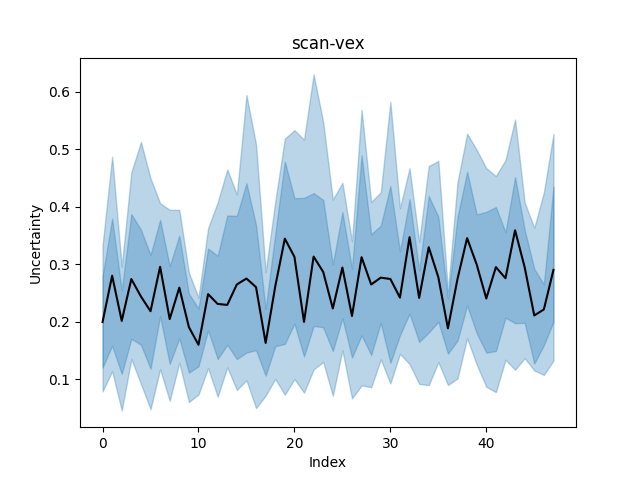
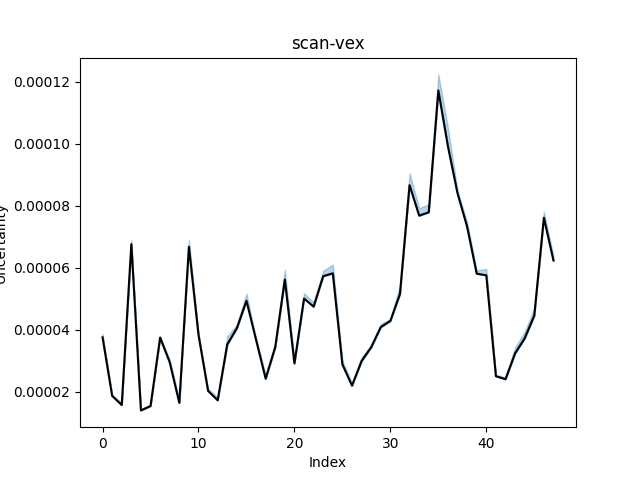
Switched from median to mean for thresholds

diff --git a/code/thresholds/thresholds.py b/code/thresholds/thresholds.py
@@ -2,11 +2,11 @@ import os
 import numpy as np
 import matplotlib.pyplot as plt
 
-THRESHOLDS = ((1, True), (0.2, False))
+THRESHOLDS = ()#(1, True), (0.2, False))
 INCREASING = {
     "observation-gap": True,
     "probe-s-rho": True,
-    #"probe-s-theta": True,
+    "probe-s-theta": True,
     "scan-am": False,
     "scan-cadence": True,
     "scan-perigee": True,
@@ -14,11 +14,11 @@ INCREASING = {
     "scan-vex": True,
 }
 PULL = True
-DIRECTORY = "fe"
+DIRECTORY = "lumpy"
 
 if PULL:
     for name in INCREASING.keys():
-        os.system(f"scp jdinsmore@txe1-login.mit.edu:asteroid-tidal-torque/code/thresholds/fe/{name}.npy {DIRECTORY}/")
+        os.system(f"scp jdinsmore@txe1-login.mit.edu:asteroid-tidal-torque/code/thresholds/{DIRECTORY}/{name}.npy {DIRECTORY}/")
 
 
 print('Thresholds\t\t'+'\t\t'.join([str(t[0]) for t in THRESHOLDS]))
@@ -36,13 +36,15 @@ for fname in os.listdir(DIRECTORY):
         
         plt.figure()
         xs = np.arange(len(uncs))
-        plt.plot(xs, uncs[:,2], label=fname[:-4], color="k")
+        plt.plot(xs, uncs[:,5], label=fname[:-4], color="k") # mean is 5, median is 2
         plt.fill_between(xs, uncs[:,1], uncs[:,3], alpha=0.3, color="C0")
         plt.fill_between(xs, uncs[:,0], uncs[:,4], alpha=0.3, color="C0")
         plt.title(fname[:-4])
 
+        print(uncs)
+
         for threshold, wait in THRESHOLDS:
-            #plt.axhline(y=threshold, c='r')
+            plt.axhline(y=threshold, c='r')
 
             if INCREASING[fname[:-4]]:
                 where_more_than_one = np.where(uncs>threshold)[0]
@@ -54,7 +56,7 @@ for fname in os.listdir(DIRECTORY):
                 fraction = (threshold - uncs[thresh_index-1]) / (uncs[thresh_index] - uncs[thresh_index-1])
                 thresh = thresh_index - 1 + fraction
                 
-                #plt.axvline(x=thresh, c='k')
+                plt.axvline(x=thresh, c='k')
                 print(f"inc.\t{thresh}", end='\t')
 
             else:
@@ -81,7 +83,7 @@ for fname in os.listdir(DIRECTORY):
                     continue
                 fraction = (threshold - uncs[thresh_index]) / (uncs[thresh_index - 1] - uncs[thresh_index])
                 thresh = thresh_index - fraction
-                #plt.axvline(x=thresh, c='k')
+                plt.axvline(x=thresh, c='k')
                 print(f"dec.\t{thresh}", end='\t')
         print()
         plt.xlabel("Index")

diff --git a/code/thresholds/lumpy/compute-uncs.py b/code/thresholds/lumpy/compute-uncs.py
@@ -160,6 +160,7 @@ def get_unc_for_file(dname, fname):
         np.nanpercentile(uncertainty_ratio, 50),
         np.nanpercentile(uncertainty_ratio, (100 - 68.27) / 2),
         np.nanpercentile(uncertainty_ratio, (100 - 95.45) / 2),
+        np.nanmean(uncertainty_ratio),
     ])
 
 def scan_specific(directory, threshold):
